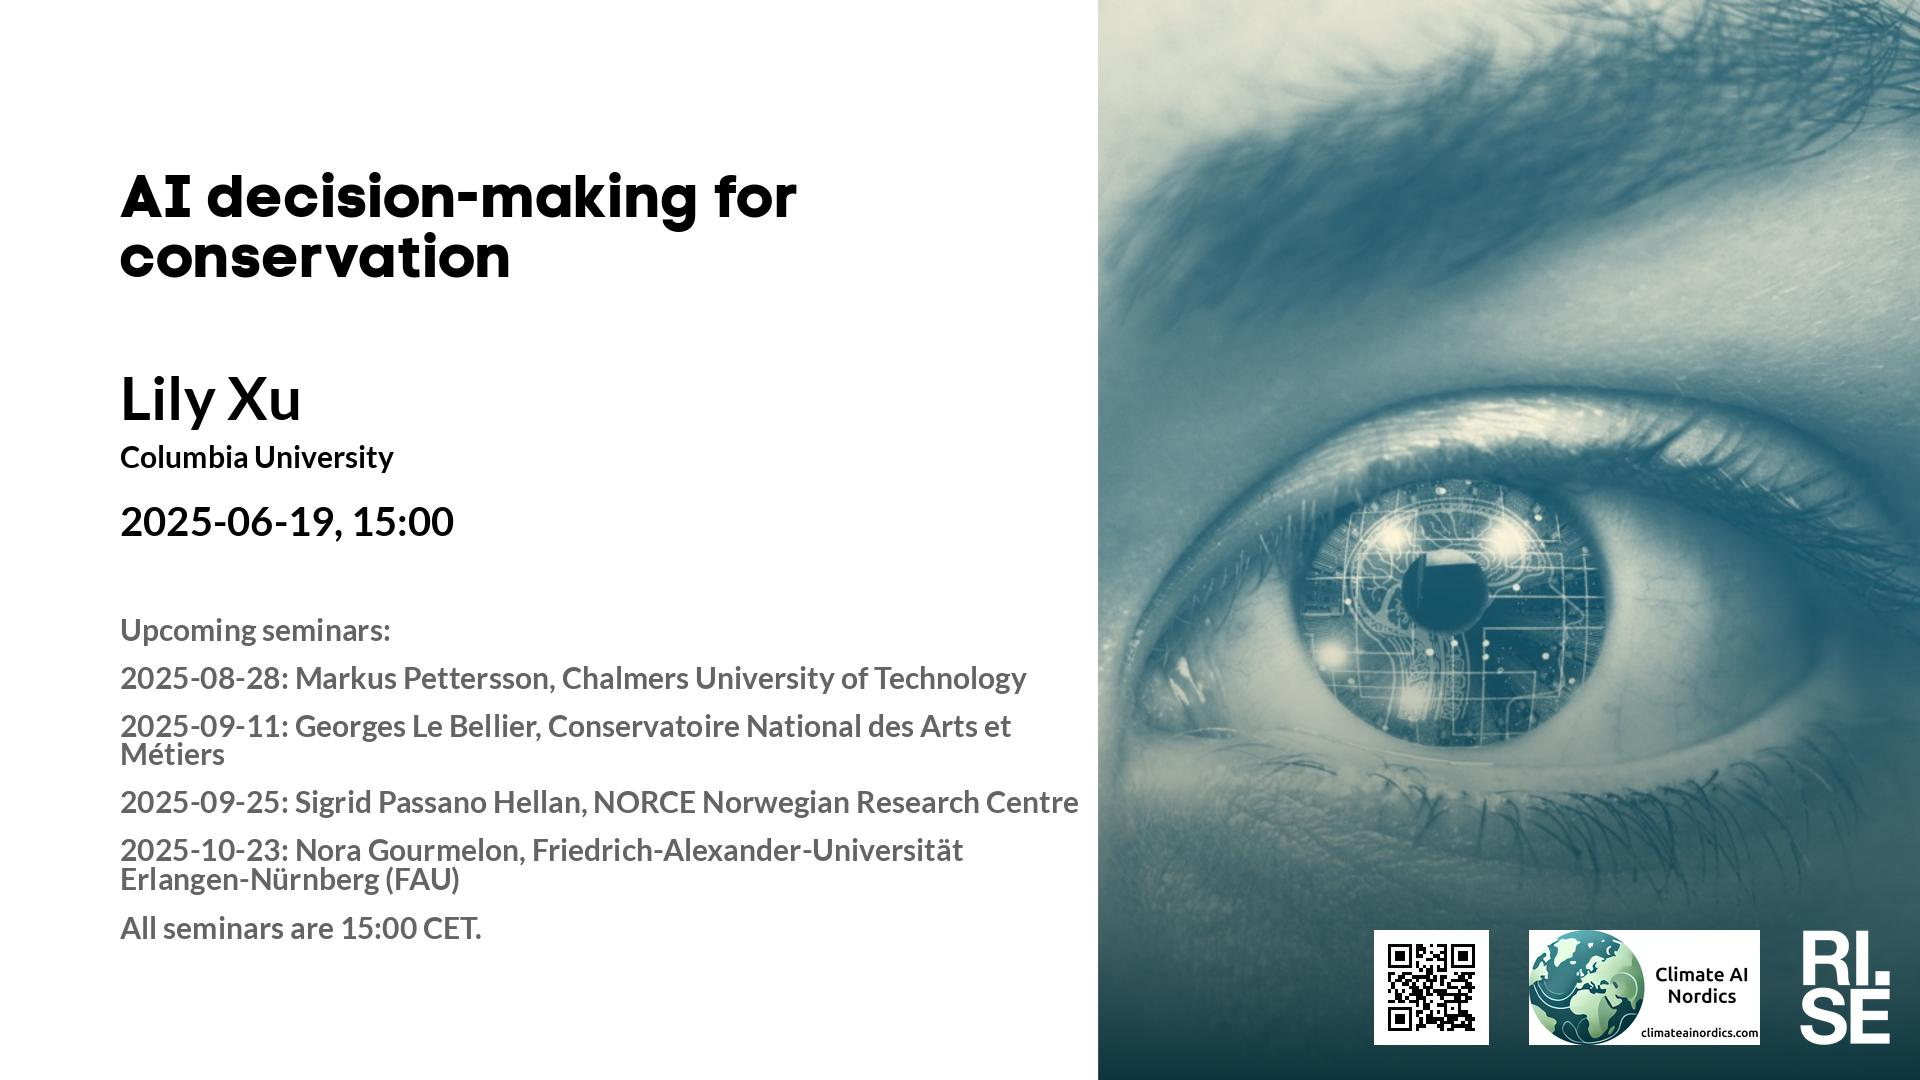
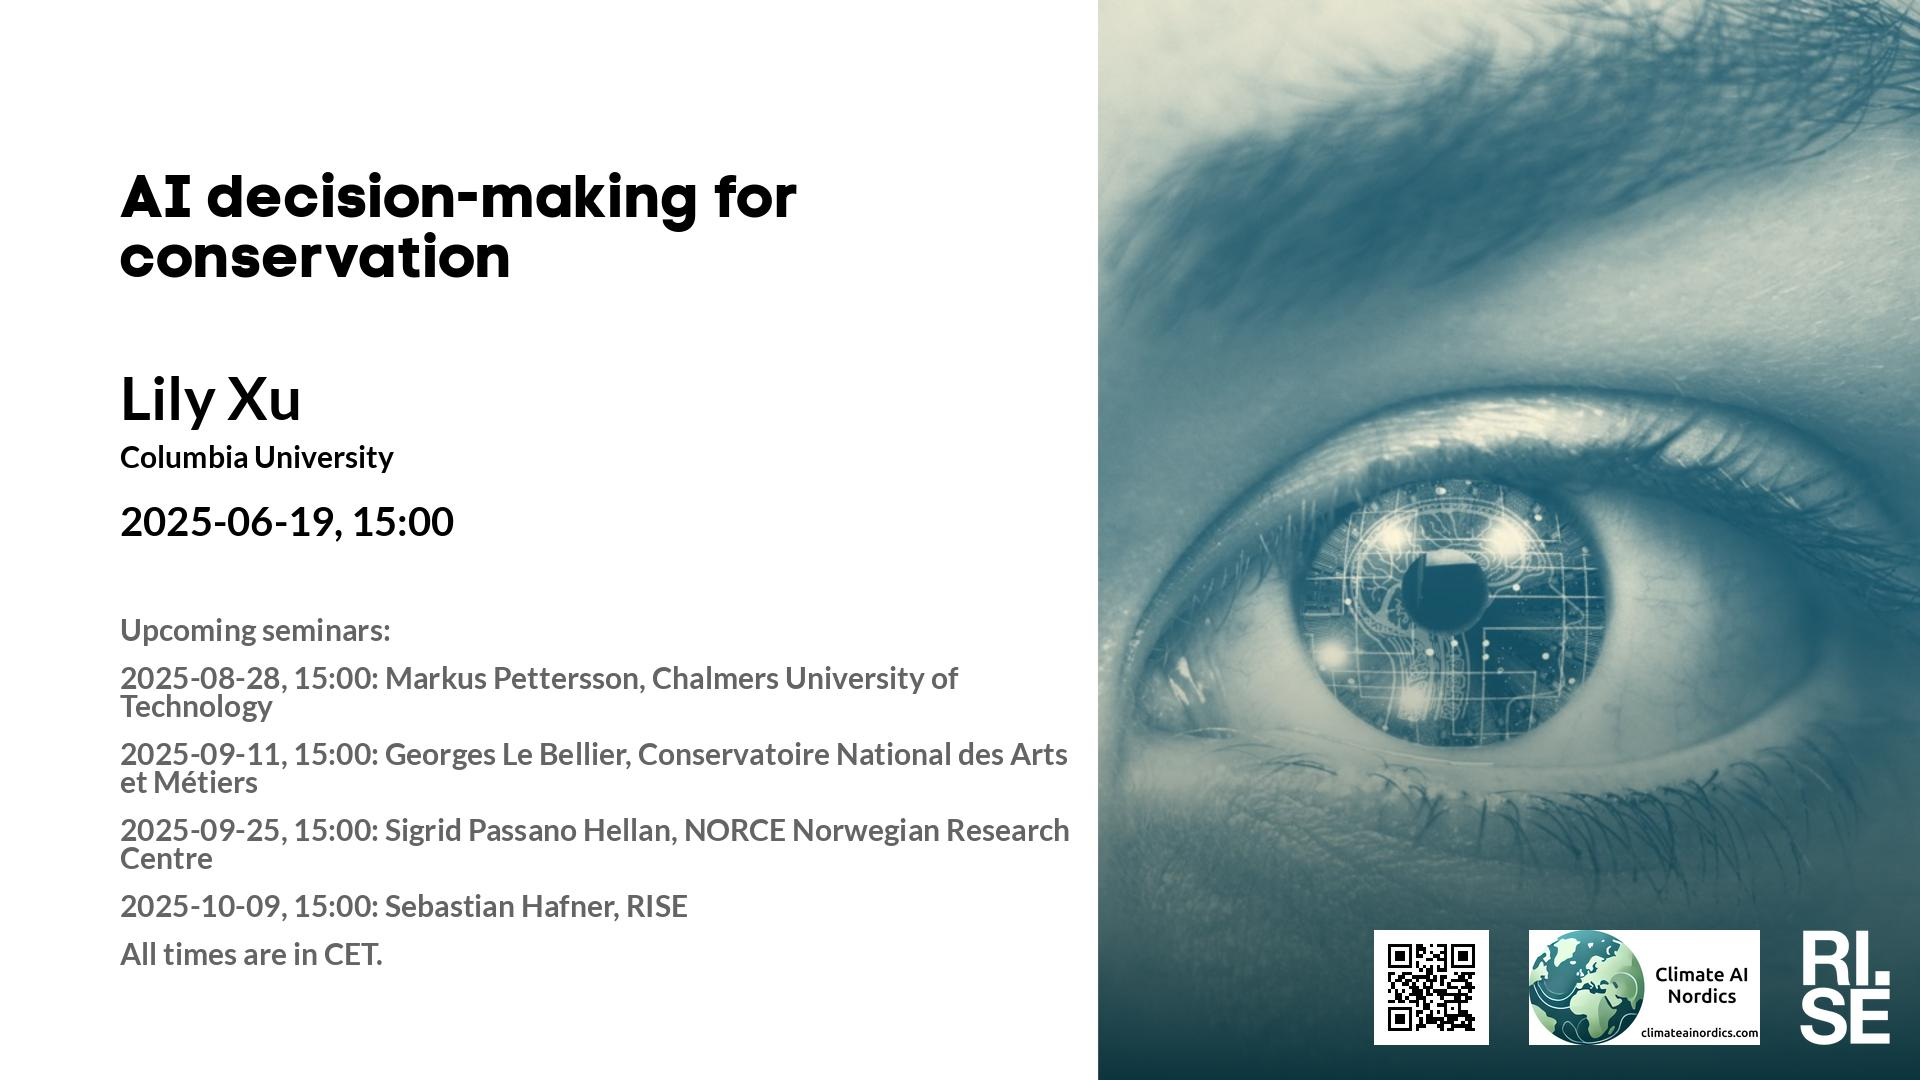
Updated plan on web site.

Changed region(s): [[0.0625, 0.6111, 0.5625, 0.9167]]

diff --git a/lm/2025.md b/lm/2025.md
@@ -33,7 +33,7 @@ table {border-collapse: collapse;}
 | <span style="color:red"> 2025-06-12 </span> | <span style="color:red"> *Up for grabs!!!* </span> | <span style="color:red">  </span> | <span style="color:red">  </span> | <span style="color:red">  </span> | <span style="color:red">  </span> | <span style="color:red"> CANCELLED </span> |
 |  2025-06-19  |  [Lily Xu, Columbia University](2025-06-19.md)  |  [photo](2025-06-19-photo-lily-xu.jpg)  |  [social media ](2025-06-19-social-media-lily-xu.jpg)  |  [meeting backdrop ](2025-06-19-meeting-backdrop-lily-xu.jpg)  |  [youtube thumbnail ](2025-06-19-youtube-thumbnail-lily-xu.jpg)  |  STABP  |
 |  2025-08-28  |  [Markus Pettersson, Chalmers University of Technology](2025-08-28.md)  |  [photo](2025-08-28-photo-markus-pettersson.jpg)  |  [social media ](2025-08-28-social-media-markus-pettersson.jpg)  |  [meeting backdrop ](2025-08-28-meeting-backdrop-markus-pettersson.jpg)  |  [youtube thumbnail ](2025-08-28-youtube-thumbnail-markus-pettersson.jpg)  |  STABP  |
-|  2025-09-11  |  [Georges Le Bellier, Conservatoire National des Arts et Métiers](2025-09-11.md)  |  [photo](2025-09-11-photo-georges-le-bellier.jpg)  |  [social media ](2025-09-11-social-media-georges-le-bellier.jpg)  |  [meeting backdrop ](2025-09-11-meeting-backdrop-georges-le-bellier.jpg)  |  [youtube thumbnail ](2025-09-11-youtube-thumbnail-georges-le-bellier.jpg)  |  S~~TAB~~P  |
+|  2025-09-11  |  [Georges Le Bellier, Conservatoire National des Arts et Métiers](2025-09-11.md)  |  [photo](2025-09-11-photo-georges-le-bellier.jpg)  |  [social media ](2025-09-11-social-media-georges-le-bellier.jpg)  |  [meeting backdrop ](2025-09-11-meeting-backdrop-georges-le-bellier.jpg)  |  [youtube thumbnail ](2025-09-11-youtube-thumbnail-georges-le-bellier.jpg)  |  S~~T~~ABP  |
 |  2025-09-25  |  [Sigrid Passano Hellan, NORCE Norwegian Research Centre](2025-09-25.md)  |  [photo](2025-09-25-photo-sigrid-passano-hellan.jpg)  |  [social media ](2025-09-25-social-media-sigrid-passano-hellan.jpg)  |  [meeting backdrop ](2025-09-25-meeting-backdrop-sigrid-passano-hellan.jpg)  |  [youtube thumbnail ](2025-09-25-youtube-thumbnail-sigrid-passano-hellan.jpg)  |  S~~TA~~BP  |
 |  2025-10-09  |  [Sebastian Hafner, RISE Research Institutes of Sweden](2025-10-09.md)  |  [photo](2025-10-09-photo-sebastian-hafner.jpg)  |  [social media ](2025-10-09-social-media-sebastian-hafner.jpg)  |  [meeting backdrop ](2025-10-09-meeting-backdrop-sebastian-hafner.jpg)  |  [youtube thumbnail ](2025-10-09-youtube-thumbnail-sebastian-hafner.jpg)  |  S~~TAB~~P  |
 |  2025-11-06  |  [Felix Koehler, TU Munich](2025-11-06.md)  |  [photo](2025-11-06-photo-felix-koehler.jpg)  |  [social media ](2025-11-06-social-media-felix-koehler.jpg)  |  [meeting backdrop ](2025-11-06-meeting-backdrop-felix-koehler.jpg)  |  [youtube thumbnail ](2025-11-06-youtube-thumbnail-felix-koehler.jpg)  |  S~~TAB~~P  |

diff --git a/lm/index.md b/lm/index.md
@@ -33,7 +33,7 @@ table {border-collapse: collapse;}
 | <span style="color:red"> 2025-06-12 </span> | <span style="color:red"> *Up for grabs!!!* </span> | <span style="color:red">  </span> | <span style="color:red">  </span> | <span style="color:red">  </span> | <span style="color:red">  </span> | <span style="color:red"> CANCELLED </span> |
 |  2025-06-19  |  [Lily Xu, Columbia University](2025-06-19.md)  |  [photo](2025-06-19-photo-lily-xu.jpg)  |  [social media ](2025-06-19-social-media-lily-xu.jpg)  |  [meeting backdrop ](2025-06-19-meeting-backdrop-lily-xu.jpg)  |  [youtube thumbnail ](2025-06-19-youtube-thumbnail-lily-xu.jpg)  |  STABP  |
 |  2025-08-28  |  [Markus Pettersson, Chalmers University of Technology](2025-08-28.md)  |  [photo](2025-08-28-photo-markus-pettersson.jpg)  |  [social media ](2025-08-28-social-media-markus-pettersson.jpg)  |  [meeting backdrop ](2025-08-28-meeting-backdrop-markus-pettersson.jpg)  |  [youtube thumbnail ](2025-08-28-youtube-thumbnail-markus-pettersson.jpg)  |  STABP  |
-|  2025-09-11  |  [Georges Le Bellier, Conservatoire National des Arts et Métiers](2025-09-11.md)  |  [photo](2025-09-11-photo-georges-le-bellier.jpg)  |  [social media ](2025-09-11-social-media-georges-le-bellier.jpg)  |  [meeting backdrop ](2025-09-11-meeting-backdrop-georges-le-bellier.jpg)  |  [youtube thumbnail ](2025-09-11-youtube-thumbnail-georges-le-bellier.jpg)  |  S~~TAB~~P  |
+|  2025-09-11  |  [Georges Le Bellier, Conservatoire National des Arts et Métiers](2025-09-11.md)  |  [photo](2025-09-11-photo-georges-le-bellier.jpg)  |  [social media ](2025-09-11-social-media-georges-le-bellier.jpg)  |  [meeting backdrop ](2025-09-11-meeting-backdrop-georges-le-bellier.jpg)  |  [youtube thumbnail ](2025-09-11-youtube-thumbnail-georges-le-bellier.jpg)  |  S~~T~~ABP  |
 |  2025-09-25  |  [Sigrid Passano Hellan, NORCE Norwegian Research Centre](2025-09-25.md)  |  [photo](2025-09-25-photo-sigrid-passano-hellan.jpg)  |  [social media ](2025-09-25-social-media-sigrid-passano-hellan.jpg)  |  [meeting backdrop ](2025-09-25-meeting-backdrop-sigrid-passano-hellan.jpg)  |  [youtube thumbnail ](2025-09-25-youtube-thumbnail-sigrid-passano-hellan.jpg)  |  S~~TA~~BP  |
 |  2025-10-09  |  [Sebastian Hafner, RISE Research Institutes of Sweden](2025-10-09.md)  |  [photo](2025-10-09-photo-sebastian-hafner.jpg)  |  [social media ](2025-10-09-social-media-sebastian-hafner.jpg)  |  [meeting backdrop ](2025-10-09-meeting-backdrop-sebastian-hafner.jpg)  |  [youtube thumbnail ](2025-10-09-youtube-thumbnail-sebastian-hafner.jpg)  |  S~~TAB~~P  |
 |  2025-11-06  |  [Felix Koehler, TU Munich](2025-11-06.md)  |  [photo](2025-11-06-photo-felix-koehler.jpg)  |  [social media ](2025-11-06-social-media-felix-koehler.jpg)  |  [meeting backdrop ](2025-11-06-meeting-backdrop-felix-koehler.jpg)  |  [youtube thumbnail ](2025-11-06-youtube-thumbnail-felix-koehler.jpg)  |  S~~TAB~~P  |

diff --git a/lm/2025-09-11.md b/lm/2025-09-11.md
@@ -7,13 +7,15 @@ Welcome to this week's Learning Machines seminar.
 
 This seminar is a collaboration between RISE and Climate AI Nordics -- [climateainordics.com](https://climateainordics.com/).
 
-**Title:** N/A
+**Title:** 
 
 **Speaker:** Georges Le Bellier, Conservatoire National des Arts et Métiers
 
-**Abstract:** N/A
+**Abstract:** Deep learning for remote sensing plays a crucial role in turning satellite and aerial imagery into dependable, real-world insights. However, Earth observation models must handle diverse environments, sensors, and conditions—such as clouds, seasonal shifts, and geographic differences—while still producing accurate results. In this talk, we explore two paths that lead to more robust and adaptable algorithms: generative domain adaptation and geospatial foundation models.
+First, I will introduce FlowEO, a generative approach of Unsupervised Domain Adaptation (UDA) for Earth observation, and show its high performance in UDA scenarios for several downstream tasks, including dense prediction and classification. This flow-matching-based translation method improves pretrained predictive models&#x27; accuracies in challenging scenarios such as post-disaster response and high cloud coverage cases with SAR-to-optical translation. FlowEO’s generative domain adaptation method is independent of the downstream task and does not require retraining the predictive model.
+Then, I will present “PANGAEA: A Global and Inclusive Benchmark for Geospatial Foundation Models“, a standardized evaluation protocol that covers a diverse set of datasets, dense prediction tasks, resolutions, sensor modalities, and temporalities. This benchmark includes comparison between geospatial foundation models but also with supervised baselines, namely U-Net and ViT, and highlights the strengths and weaknesses of GFMs. In addition, PANGAEA evaluates models’ accuracy in cases where labels are limited and questions the impact of multi-temporal data for GFMs.
 
-**About the speaker:** N/A
+**About the speaker:** Georges Le Bellier is a third-year PhD candidate at the Conservatoire National des Arts et Métiers, where he researches generative models for Earth Observation. Previously, he explored generative approaches for controllable musical performance at Sony and IRCAM. He now focuses on developing efficient conditional generative models tailored to remote sensing. His current research combines flow-based methods with domain adaptation, aiming to enhance the robustness of EO models to shifting data distributions.
 
 **Location:** This is an online seminar. Connect using Zoom.
 

diff --git a/lm/2025-08-28.md b/lm/2025-08-28.md
@@ -27,11 +27,11 @@ Through analytical exercises and experiments using Demographic and Health Survey
 
 **Upcoming seminars:**
 
-* 2025-09-11: Georges Le Bellier, Conservatoire National des Arts et Métiers
-* 2025-09-25: Sigrid Passano Hellan, NORCE Norwegian Research Centre
-* 2025-10-09: Sebastian Hafner, RISE
-* 2025-10-23: Nora Gourmelon, Friedrich-Alexander-Universität Erlangen-Nürnberg (FAU)
-* All seminars are 15:00 CET.
+* 2025-09-11, 15:00: Georges Le Bellier, Conservatoire National des Arts et Métiers
+* 2025-09-25, 15:00: Sigrid Passano Hellan, NORCE Norwegian Research Centre
+* 2025-10-09, 15:00: Sebastian Hafner, RISE
+* 2025-10-23, : Nora Gourmelon, Friedrich-Alexander-Universität Erlangen-Nürnberg (FAU), **digital and physical: **
+* All times are in CET.
 
 More information and coming seminars: [https://ri.se/lm-sem](https://ri.se/lm-sem)
 

diff --git a/lm/2025-06-19.md b/lm/2025-06-19.md
@@ -23,11 +23,11 @@ This seminar is a collaboration between RISE and Climate AI Nordics -- [climatea
 
 **Upcoming seminars:**
 
-* 2025-08-28: Markus Pettersson, Chalmers University of Technology
-* 2025-09-11: Georges Le Bellier, Conservatoire National des Arts et Métiers
-* 2025-09-25: Sigrid Passano Hellan, NORCE Norwegian Research Centre
-* 2025-10-23: Nora Gourmelon, Friedrich-Alexander-Universität Erlangen-Nürnberg (FAU)
-* All seminars are 15:00 CET.
+* 2025-08-28, 15:00: Markus Pettersson, Chalmers University of Technology
+* 2025-09-11, 15:00: Georges Le Bellier, Conservatoire National des Arts et Métiers
+* 2025-09-25, 15:00: Sigrid Passano Hellan, NORCE Norwegian Research Centre
+* 2025-10-09, 15:00: Sebastian Hafner, RISE
+* All times are in CET.
 
 More information and coming seminars: [https://ri.se/lm-sem](https://ri.se/lm-sem)
 
